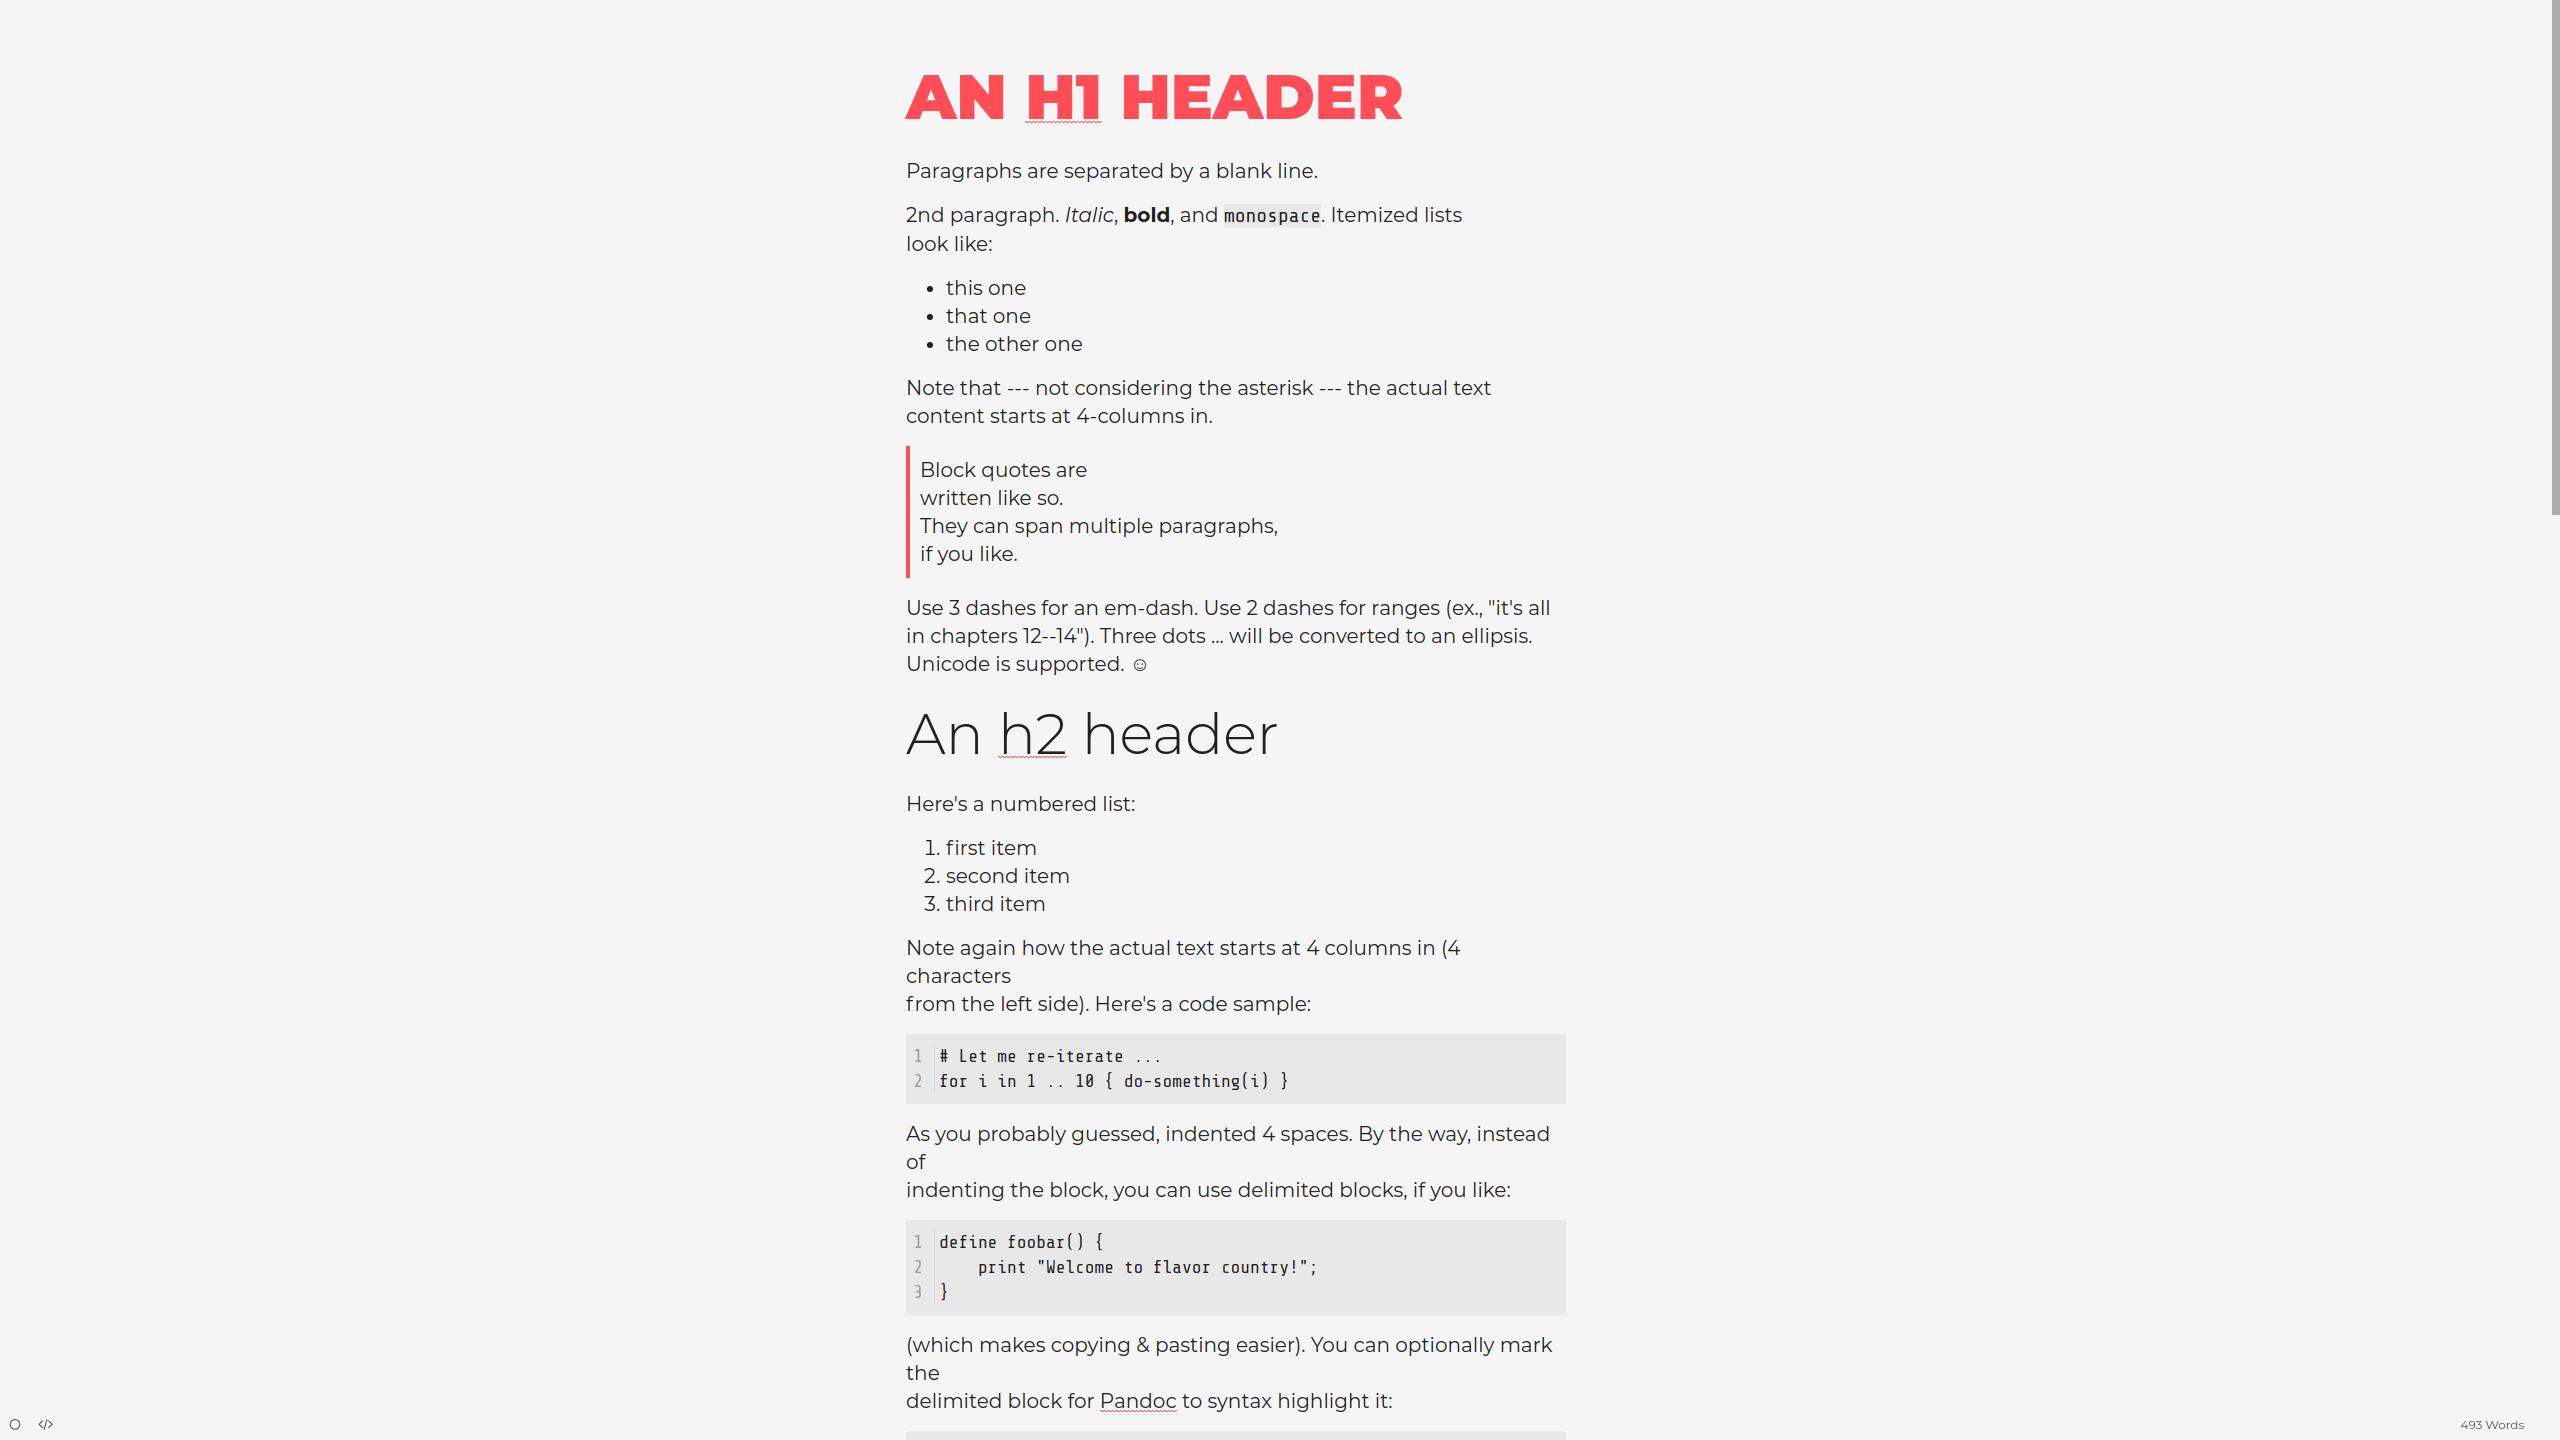
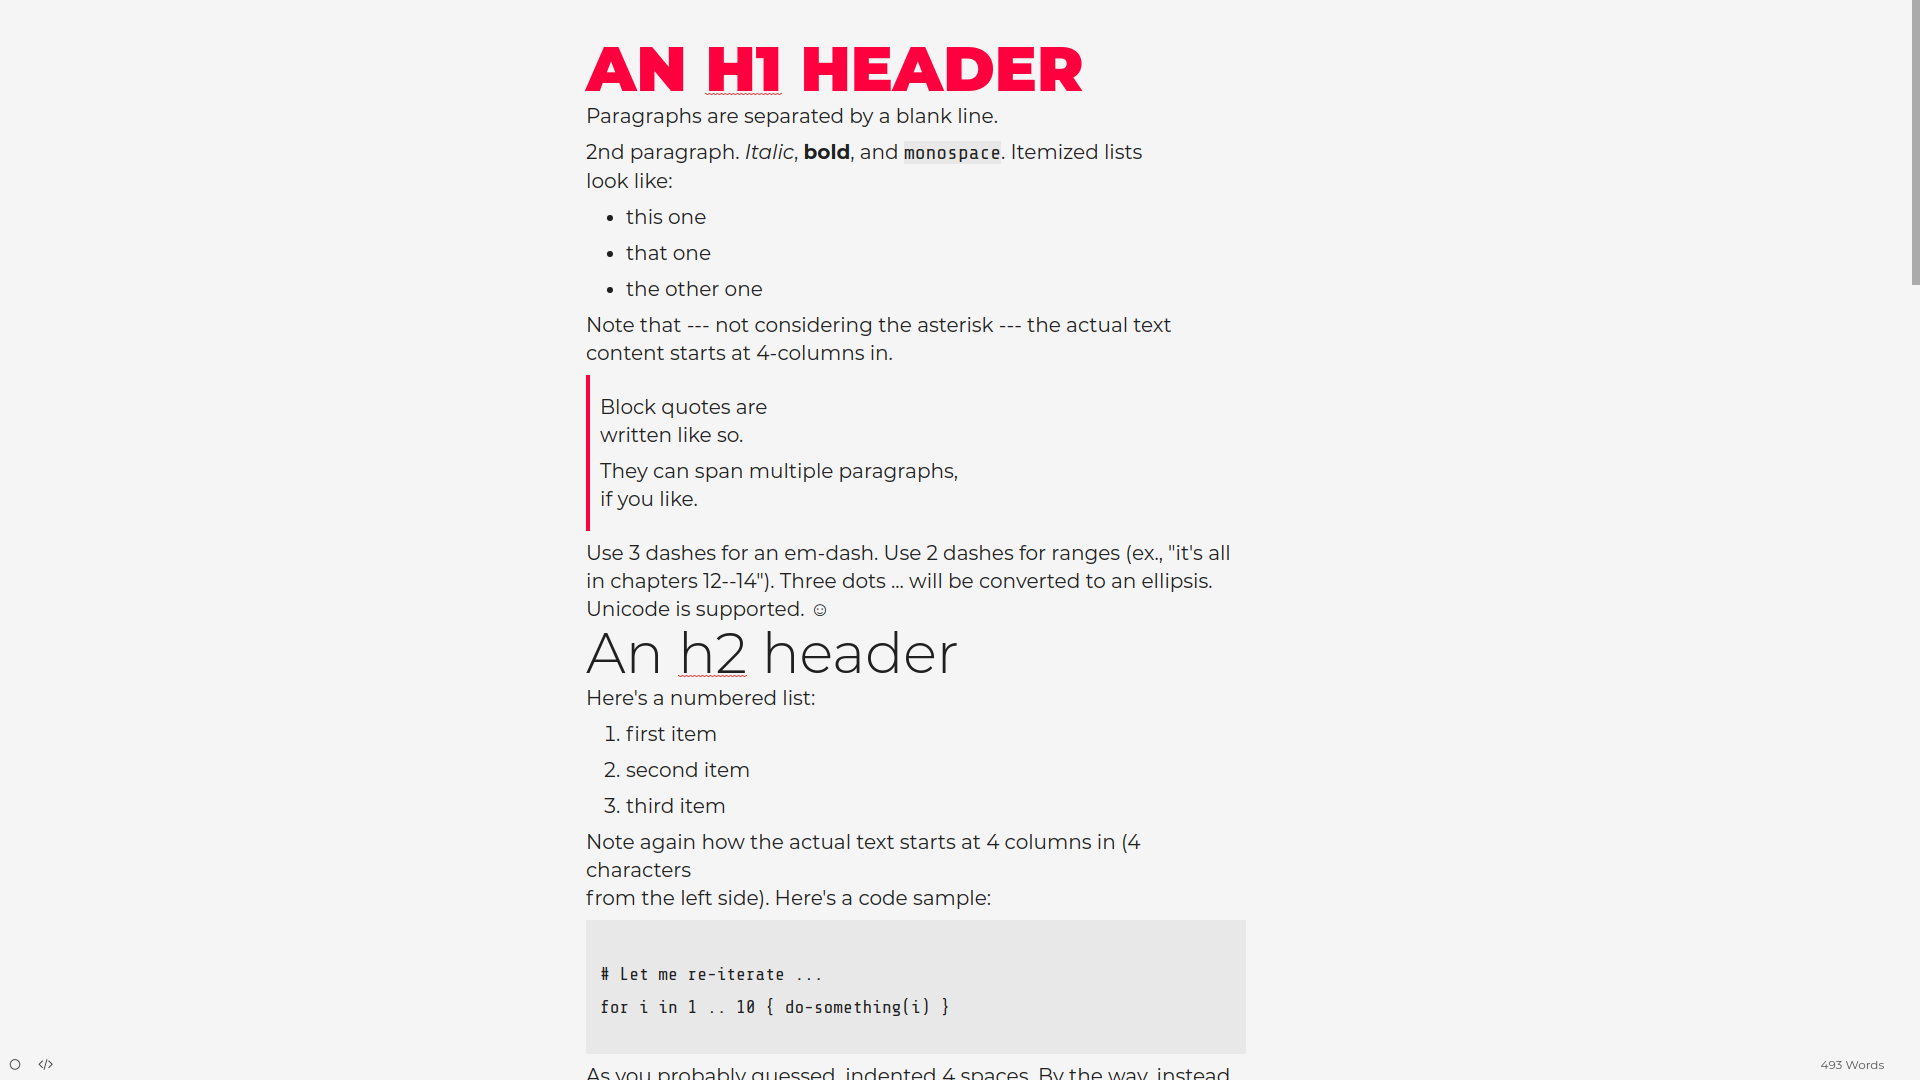
2.2 update

Changed region(s): [[0.2812, 0.0306, 0.625, 1.0], [0.9375, 0.9778, 1.0, 1.0], [0.0, 0.9778, 0.0312, 1.0]]

diff --git a/theme/benjistokman-print.css b/theme/benjistokman-print.css
@@ -1,6 +1,6 @@
 /*
 Benjistokman Print Typora/CSS Theme
-2.1
+2.2
 
 Created by Ben Stokman
 ben.stokman@protonmail.com
@@ -77,7 +77,7 @@ html {
 }
 
 .content *, #write * {
-	margin: 16px 0;
+	margin: 8px 0;
 }
 
 pre * {
@@ -85,7 +85,7 @@ pre * {
 }
 
 h1, h2, h3, h4, h5, h6 {
-	margin: 0;
+	line-height: 0.8;
 }
 
 h1 {font-size: calc(var(--font-size) * 2.5);}

diff --git a/theme/benjistokman-dark.css b/theme/benjistokman-dark.css
@@ -1,6 +1,6 @@
 /*
 Benjistokman Dark Typora/CSS Theme
-2.1
+2.2
 
 Created by Ben Stokman
 ben.stokman@protonmail.com
@@ -77,7 +77,7 @@ html {
 }
 
 .content *, #write * {
-	margin: 16px 0;
+	margin: 8px 0;
 }
 
 pre * {
@@ -85,7 +85,7 @@ pre * {
 }
 
 h1, h2, h3, h4, h5, h6 {
-	margin: 0;
+	line-height: 0.8;
 }
 
 h1 {font-size: calc(var(--font-size) * 2.5);}

diff --git a/theme/benjistokman.css b/theme/benjistokman.css
@@ -1,6 +1,6 @@
 /*
 Benjistokman Typora/CSS Theme
-2.1
+2.2
 
 Created by Ben Stokman
 ben.stokman@protonmail.com
@@ -77,7 +77,7 @@ html {
 }
 
 .content *, #write * {
-	margin: 16px 0;
+	margin: 8px 0;
 }
 
 pre * {
@@ -85,7 +85,7 @@ pre * {
 }
 
 h1, h2, h3, h4, h5, h6 {
-	margin: 0;
+	line-height: 0.8;
 }
 
 h1 {font-size: calc(var(--font-size) * 2.5);}
